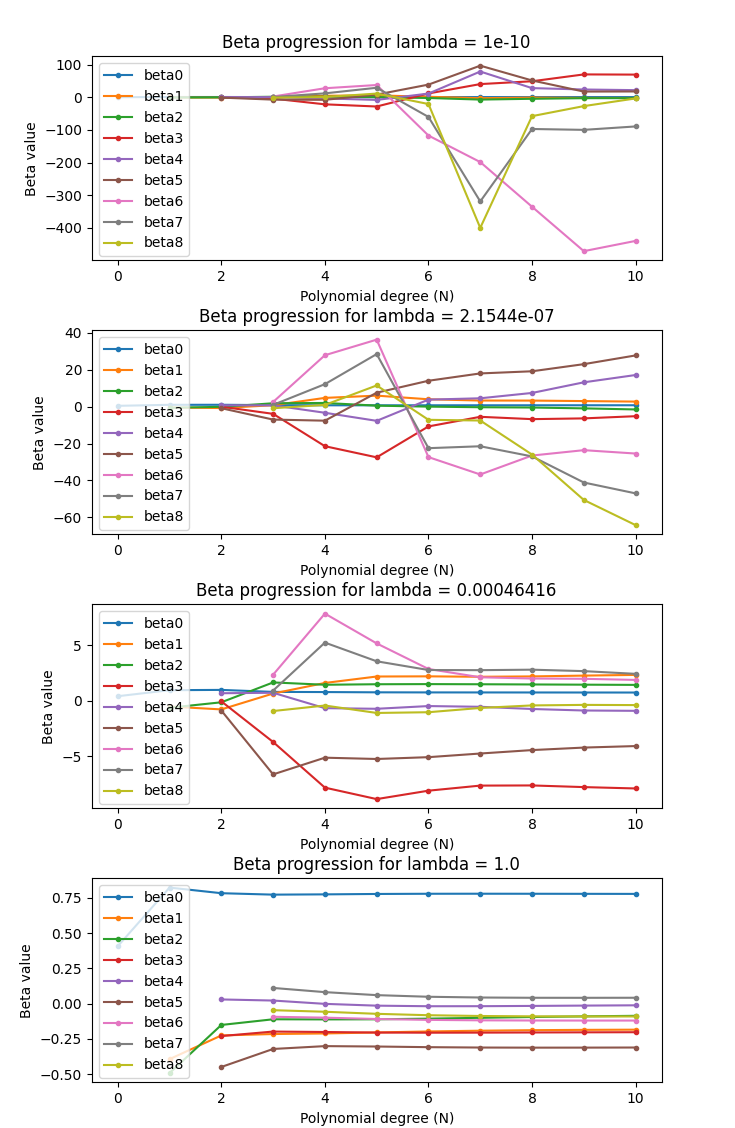
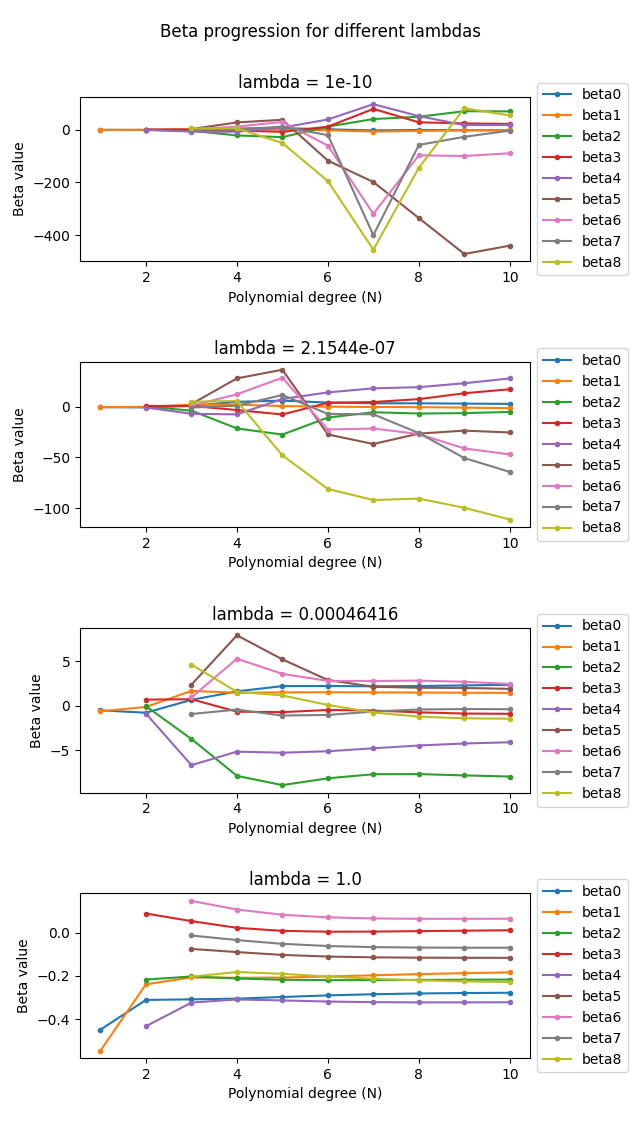
figures

Changed region(s): [[0.0, 0.0, 0.9688, 1.0], [0.2812, 0.2172, 0.3125, 0.2482], [0.0938, 0.031, 0.125, 0.0621]]

diff --git a/src/task_f_biasvariance.py b/src/task_f_biasvariance.py
@@ -12,20 +12,20 @@ np.random.seed(42069)
 N = 20
 K = 20
 bootstraps = 100
-plot_only_best_lambda = False
+plot_only_best_lambda = True
 lambdas = np.logspace(-12, -4, 6)
 # synthetic parameters
 noise = 0.05
-scaling = False
+scaling = True
 
 # read in and get data
-X, X_train, X_test, z, z_train, z_test, scaling, x, y, z = read_in_dataset(N, scaling, noise)
+X, X_train, X_test, z, z_train, z_test, scaling, x, y, z = read_in_dataset(N, scaling=scaling, noise=noise)
 z = z.ravel()
 
 # plot only the gridsearched lambda
 if plot_only_best_lambda:
     lasso = Lasso(fit_intercept=False)
-    lam, _, _ = find_best_lambda(X, z, lasso, lambdas, N, K)
+    lam, best_MSE, best_poly = find_best_lambda(X, z, lasso, lambdas, N, K)
     lambdas = [lam]
 
 # loop through different lambda values
@@ -35,7 +35,7 @@ for i in range(len(lambdas)):
            plt.suptitle(f"Bias variance tradeoff for lasso regression")
 
     # model under testing
-    model_Lasso = Lasso(lambdas[i], max_iter=200, fit_intercept=False)
+    model_Lasso = Lasso(lambdas[i], max_iter=1000, fit_intercept=False)
 
     # arrays for bias-variance
     errors = np.zeros(N)
@@ -71,10 +71,11 @@ for i in range(len(lambdas)):
     plt.xlabel("Polynomial degree (N)")
     plt.tight_layout(h_pad=0.001)
     if plot_only_best_lambda:
-        plt.title(f"Bias variance tradeoff for lasso regression for optimal lambda = {lambdas[i]}")
+        plt.title(f"Bias variance tradeoff for lasso regression \n for optimal lambda = {lambdas[i]}")
     else:
         plt.title(f"lambda = {lambdas[i]:.5}")
     plt.legend()
 
 
+print(f"Optimal lambda = {lam}, best MSE = {best_MSE}, best polynomial = {best_poly}")
 plt.show()

diff --git a/src/task_e_betas.py b/src/task_e_betas.py
@@ -13,7 +13,7 @@ betas_to_plot = 9
 
 # Parameters for synthetic data
 noise = 0.05
-scaling = False
+scaling = True
 
 # get data
 X, X_train, X_test, z, z_train, z_test, scaling, x, y, z = read_in_dataset(
@@ -42,12 +42,10 @@ for i in range(len(lambdas)):
             data = betas[beta, :]
             data[data == 0] = np.nan
             plt.plot(data, label=f"beta{beta}", marker="o", markersize=3)
-            plt.xlabel("Polynomial degree (N)")
-            plt.ylabel("Beta value")
-            plt.title("Beta progression")
-            plt.legend()
-
+    plt.xlabel("Polynomial degree (N)")
+    plt.ylabel("Beta value")
+    plt.title("Beta progression")
     plt.title(f"lambda = {lambdas[i]:.5}")
-    plt.legend()
+    plt.legend(loc='center left', bbox_to_anchor=(1, 0.5))
 
 plt.show()

diff --git a/src/task_f_msecomparison.py b/src/task_f_msecomparison.py
@@ -3,7 +3,6 @@ task f: Plots MSE comparison between OLS, ridge and lasso with cross validation 
 """
 from sklearn.linear_model import Ridge, Lasso
 from sklearn.model_selection import cross_validate, KFold
-from imageio import imread
 
 # Our own library of functions
 from utils import *

diff --git a/src/task_e_biasvariance.py b/src/task_e_biasvariance.py
@@ -15,7 +15,7 @@ plot_only_best_lambda = False
 lambdas = np.logspace(-10, 0, 4)
 # parameter synthetic data
 noise = 0.05
-scaling = False
+scaling = True
 
 # read in data
 X, X_train, X_test, z, z_train, z_test, scaling, x, y, z = read_in_dataset(
